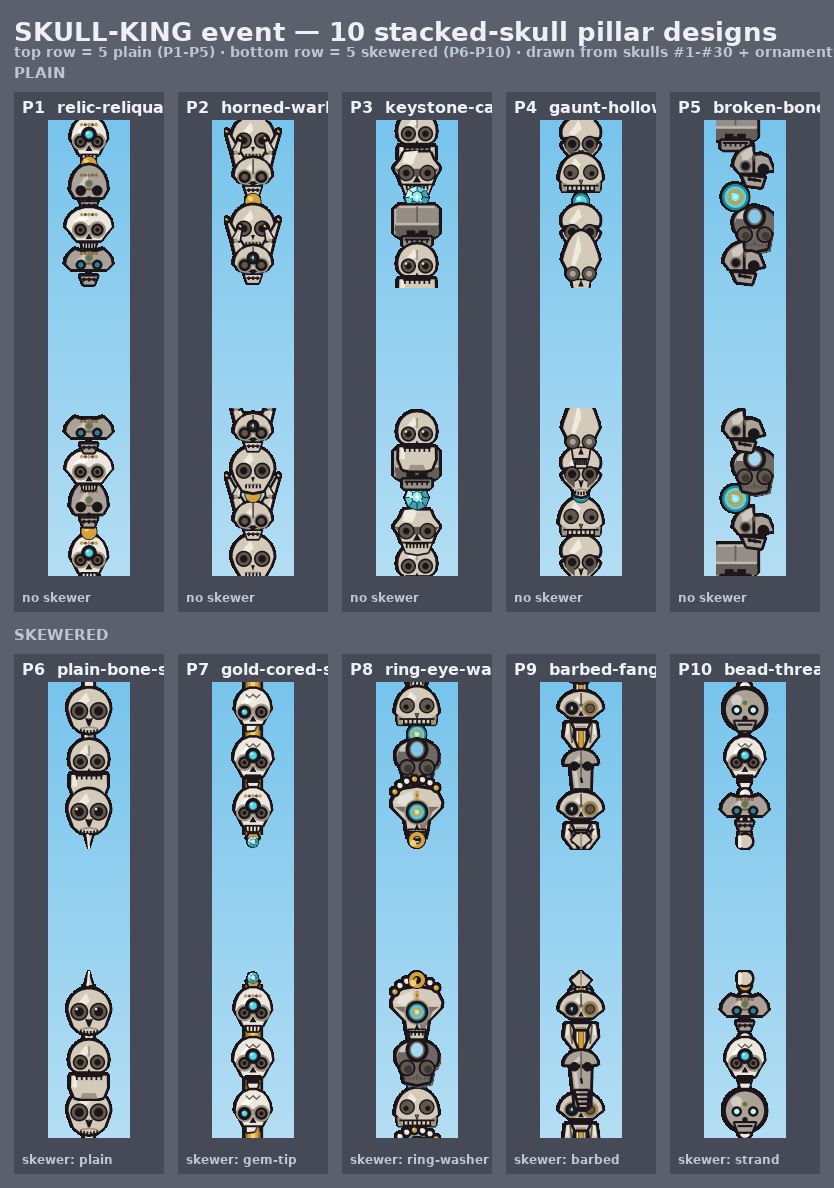
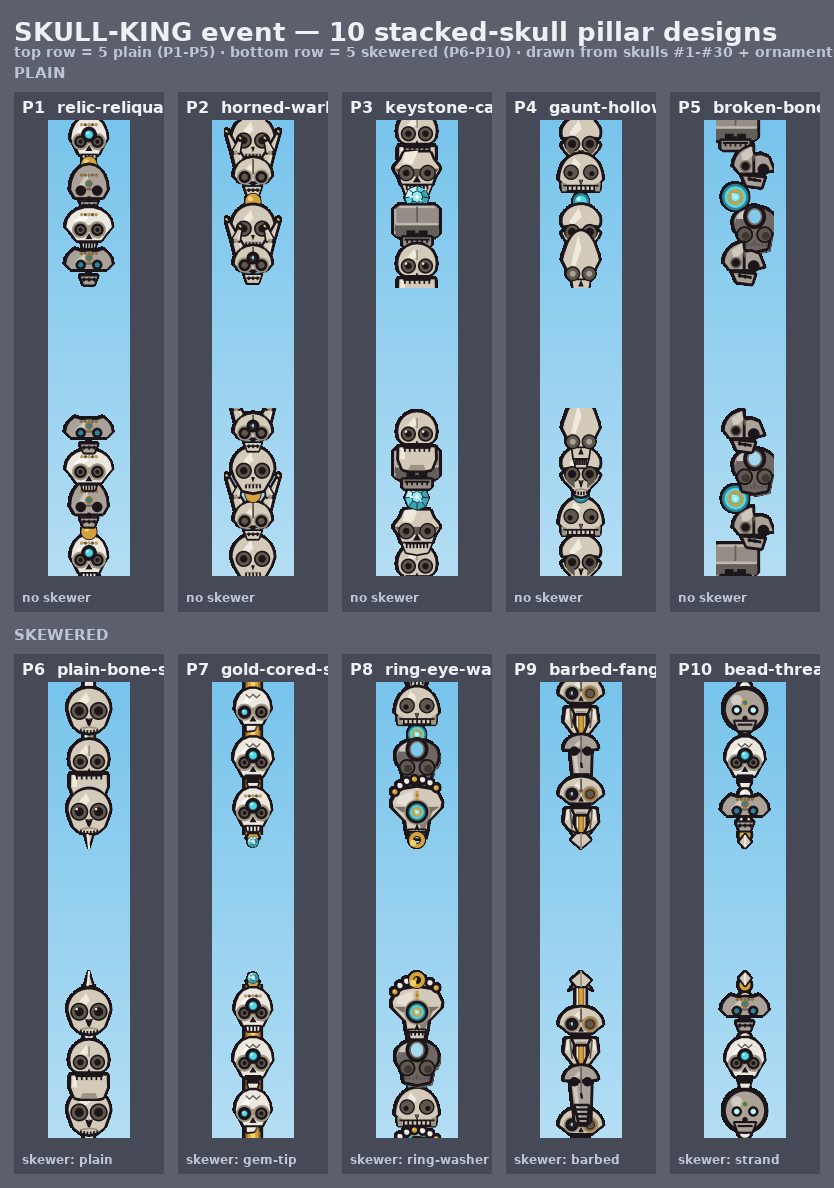
pillars: fix P9 harpoon placement + P10 pointier tip
- Add a per-pillar margin_r override to the engine. P9's focal sabertooth
  plunges long fangs toward the gap, tangling the harpoon among them; seat
  P9's stack further off the gap (margin_r=2.4) so the harpoon lances JUST
  BELOW the last skull on both finishings.
- P10: replace the flat paddle tip with a pointed SPINDLE (true to the
  pillar's name) so the end reads sharp instead of bad/blunt.

Claude-Session: https://claude.ai/code/session_01JdHJ2TbdY51oSPSCYSsaHZ

diff --git a/docs/skull_king_stack/pillars/pillar_engine.py b/docs/skull_king_stack/pillars/pillar_engine.py
@@ -154,14 +154,13 @@ def _skewer_tip(big, cx, gap_edge, point_dir, style):
         return
 
     if style == "strand":
-        # a flat PADDLE / oar blade (the boat-oar pick), flat at the gap end
-        pw = int(7 * SS)
-        top, bot = min(Y(2), Y(15)), max(Y(2), Y(15))
-        rect = pygame.Rect(cx - pw, top, 2 * pw, bot - top)
-        pygame.draw.rect(big, sk.INK, rect.inflate(int(2.6 * s), int(2.6 * s)), border_radius=int(5 * s))
-        pygame.draw.rect(big, sk.BONE, rect, border_radius=int(5 * s))
-        pygame.draw.rect(big, sk.BONE_SH, pygame.Rect(cx - pw, top, max(1, int(2.0 * s)), bot - top),
-                         border_radius=int(3 * s))
+        # a SPINDLE point (true to the pillar's name): a slim elongated lens that
+        # swells at the middle and tapers to a sharp point at the gap — pointy, and
+        # distinct from the plain wide-based triangle.
+        w = int(hw * 1.5)
+        spindle = [(cx, Y(1)), (cx + w, Y(8)), (cx, Y(17)), (cx - w, Y(8))]
+        sk.triad_blob(big, sk.BONE, [(int(x), int(y)) for x, y in spindle], ow=ow)
+        pygame.draw.line(big, sk.BONE_SH, (cx, Y(15)), (cx, Y(3)), max(1, int(1.0 * s)))
         return
 
     # plain -> sharp steel point ; barbed -> longer harpoon blade with backward barbs
@@ -187,18 +186,20 @@ def _skewer_tip(big, cx, gap_edge, point_dir, style):
 
 
 def render_pillar_half(H, *, cap, recipe, with_skewer=False, skewer_style="plain",
-                       focal_lit=True, lean=0.0, collar=None):
+                       focal_lit=True, lean=0.0, collar=None, margin_r=None):
     """One pillar half. cap='bottom' -> TOP pillar (gap below); cap='top' -> BOTTOM
     pillar (gap above). Recipe runs gap-edge -> far; element 0 = focal skull at the
     gap. Skewered stacks leave small gaps between tiers so the rod (drawn behind)
-    shows through. `lean` jitters elements off-axis. `collar` is accepted but
-    ignored (beads are now explicit recipe elements, not an auto per-seam collar)."""
+    shows through. `lean` jitters elements off-axis. `margin_r` (in units of R)
+    overrides how far the focal skull sits off the gap edge — raise it when the
+    focal skull has long downward appendages (e.g. fangs) so the tip clears it.
+    `collar` is accepted but ignored (beads are explicit recipe elements now)."""
     big = pygame.Surface((PIPE_W * SS, H * SS), pygame.SRCALPHA)
     cx0 = PIPE_W * SS // 2
     metas = [_meta(t) for t in recipe]
-    # skewered stacks sit a little further off the gap edge so the rod + its TIP
-    # have clean room to lance into the gap rather than crowding the focal skull.
-    margin = int(R * (1.75 if with_skewer else 1.05))
+    if margin_r is None:
+        margin_r = 1.75 if with_skewer else 1.05
+    margin = int(R * margin_r)
     if cap == "bottom":
         focal_y, step, point_dir, gap_edge = H - margin, -1, +1, H
     else:
@@ -228,12 +229,12 @@ def render_pillar_half(H, *, cap, recipe, with_skewer=False, skewer_style="plain
 
 
 def render_pair(recipe, *, with_skewer=False, skewer_style="plain", collar=None, lean=0.0,
-                night=False, half_h=190, gap=150, pad=12):
+                night=False, half_h=190, gap=150, pad=12, margin_r=None):
     """A full top+bottom pillar pair framing the gap, composited on sky."""
-    top = render_pillar_half(half_h, cap="bottom", recipe=recipe,
-                             with_skewer=with_skewer, skewer_style=skewer_style, lean=lean)
-    bot = render_pillar_half(half_h, cap="top", recipe=recipe,
-                             with_skewer=with_skewer, skewer_style=skewer_style, lean=lean)
+    top = render_pillar_half(half_h, cap="bottom", recipe=recipe, with_skewer=with_skewer,
+                             skewer_style=skewer_style, lean=lean, margin_r=margin_r)
+    bot = render_pillar_half(half_h, cap="top", recipe=recipe, with_skewer=with_skewer,
+                             skewer_style=skewer_style, lean=lean, margin_r=margin_r)
     H = half_h * 2 + gap
     panel = RK._sky(PIPE_W + pad * 2, H, night=night)
     panel.blit(top, (pad, 0))

diff --git a/docs/skull_king_stack/pillars/barbed-fang-harpoon/render_barbed_fang_harpoon.py b/docs/skull_king_stack/pillars/barbed-fang-harpoon/render_barbed_fang_harpoon.py
@@ -39,11 +39,15 @@ WITH_SKEWER = True
 SKEWER_STYLE = "barbed"
 COLLAR = False
 LEAN = 0.0
+# the focal sabertooth-maw plunges long fangs toward the gap, so seat the stack
+# further off the edge — this clears clean room for the harpoon to lance JUST
+# BELOW the last skull instead of tangling among its fangs.
+MARGIN_R = 2.4
 
 
 def _render():
-    day = PE.render_pair(RECIPE, with_skewer=WITH_SKEWER, skewer_style=SKEWER_STYLE, collar=COLLAR, lean=LEAN, night=False)
-    night = PE.render_pair(RECIPE, with_skewer=WITH_SKEWER, skewer_style=SKEWER_STYLE, collar=COLLAR, lean=LEAN, night=True)
+    day = PE.render_pair(RECIPE, with_skewer=WITH_SKEWER, skewer_style=SKEWER_STYLE, collar=COLLAR, lean=LEAN, margin_r=MARGIN_R, night=False)
+    night = PE.render_pair(RECIPE, with_skewer=WITH_SKEWER, skewer_style=SKEWER_STYLE, collar=COLLAR, lean=LEAN, margin_r=MARGIN_R, night=True)
     pad = 22
     W = day.get_width() + night.get_width() + pad*3; H = day.get_height() + 52
     sheet = pygame.Surface((W, H)); sheet.fill((26,24,30))

diff --git a/docs/skull_king_stack/pillars/build_showcase.py b/docs/skull_king_stack/pillars/build_showcase.py
@@ -43,7 +43,8 @@ def _load(slug, fname):
 def _cell(pid, slug, mod):
     skewer = "skewer: " + mod.SKEWER_STYLE if mod.WITH_SKEWER else "no skewer"
     pair = PE.render_pair(mod.RECIPE, with_skewer=mod.WITH_SKEWER, skewer_style=mod.SKEWER_STYLE,
-                          collar=mod.COLLAR, lean=mod.LEAN, half_h=HALF_H, gap=GAP)
+                          collar=mod.COLLAR, lean=mod.LEAN, half_h=HALF_H, gap=GAP,
+                          margin_r=getattr(mod, "MARGIN_R", None))
     cw = max(pair.get_width() + 16, 150)
     ch = pair.get_height() + 64
     cell = pygame.Surface((cw, ch)); cell.fill(sk.PANEL)
